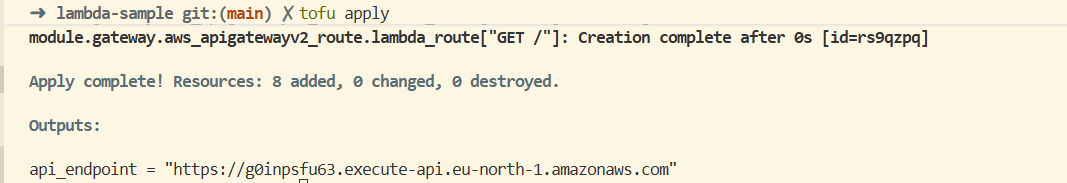
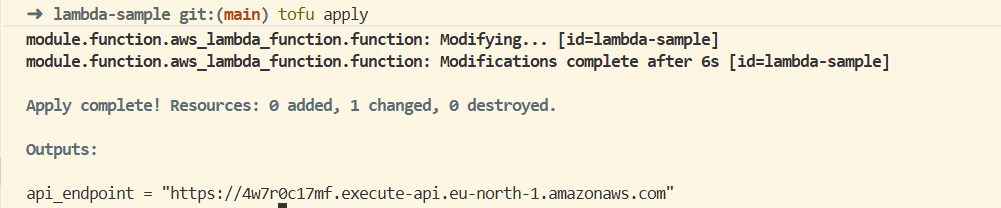
final commit

diff --git a/lab/lab3/scripts/tofu/live/lambda-sample/src/index.js b/lab/lab3/scripts/tofu/live/lambda-sample/src/index.js
@@ -1,3 +1,3 @@
 exports.handler = (event, context, callback) => {
-  callback(null, {statusCode: 200, body: "Hello, World!"});
+  callback(null, {statusCode: 200, body: "Devops Base!"});
 };

diff --git a/lab/lab3/README.md b/lab/lab3/README.md
@@ -303,16 +303,55 @@ On lance avec la commande :
 tofu init
 tofu apply
 ``` 
-Ensuite, OpenTofu affiche un output `api_endpoint` pour nous : "https://g0inpsfu63.execute-api.eu-north-1.amazonaws.com" 
+Ensuite, OpenTofu affiche un output `api_endpoint` pour nous : "https://4w7r0c17mf.execute-api.eu-north-1.amazonaws.com" 
 
 ![Exécution locale](/lab/lab3/screenshots/api_tofu.png) 
 
 ### Step 8 - Test the API Endpoint 
 
+On a donc : 
+
+![Exécution locale](/lab/lab3/screenshots/hello_api.png) 
+
+
 ### Step 9 - Update the Lambda Function 
+
+On change "Hello, World!" en "Devops Base!" dans `index.js` puis on relance : 
+
+```
+tofu apply
+``` 
+On a un output `api_endpoint` : "https://4w7r0c17mf.execute-api.eu-north-1.amazonaws.com" qui est la même que précèdement.
+
+![Exécution locale](/lab/lab3/screenshots/newapi.png) 
 
 ### Step 10 - Verify the Update 
 
+Mais lorsque l'on teste : 
+```
+curl https://4w7r0c17mf.execute-api.eu-north-1.amazonaws.com
+```
+La sortie est différente et concorde avec nos changements : 
+
+![Exécution locale](/lab/lab3/screenshots/api_output.png) 
+
+La mise à jour est donc instantanée ! 
+
 ## Clean Up 
+On clean tout avec la commande :
+
+```
+tofu destroy
+``` 
+
+![Exécution locale](/lab/lab3/screenshots/destroy.png) 
 
 ## Conclusion 
+
+Ce lab nous a permis de voir plusieurs façons de déployer une application, du serveur classique jusqu’au serverless. 
+
+On voit bien l’évolution : au début on gère les machines puis les conteneurs et à la fin on ne gère plus que le code. 
+
+Chaque approche a ses avantages selon le besoin mais plus on avance, plus l’infrastructure est abstraite et automatisée. 
+
+Ce lab nous a donc permis de mieux comprendre les différences concrètes entre VM, Kubernetes et Lambda.
